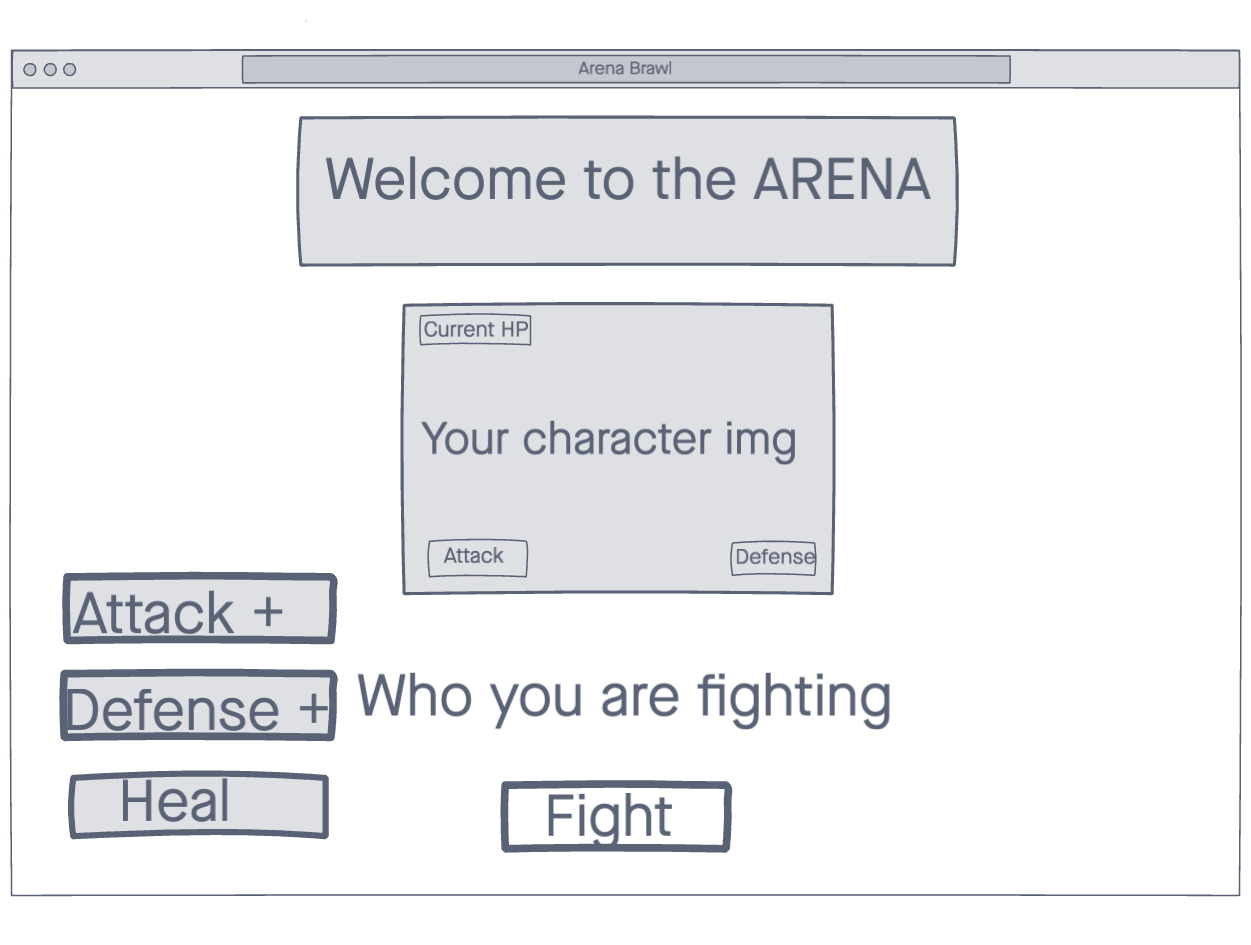
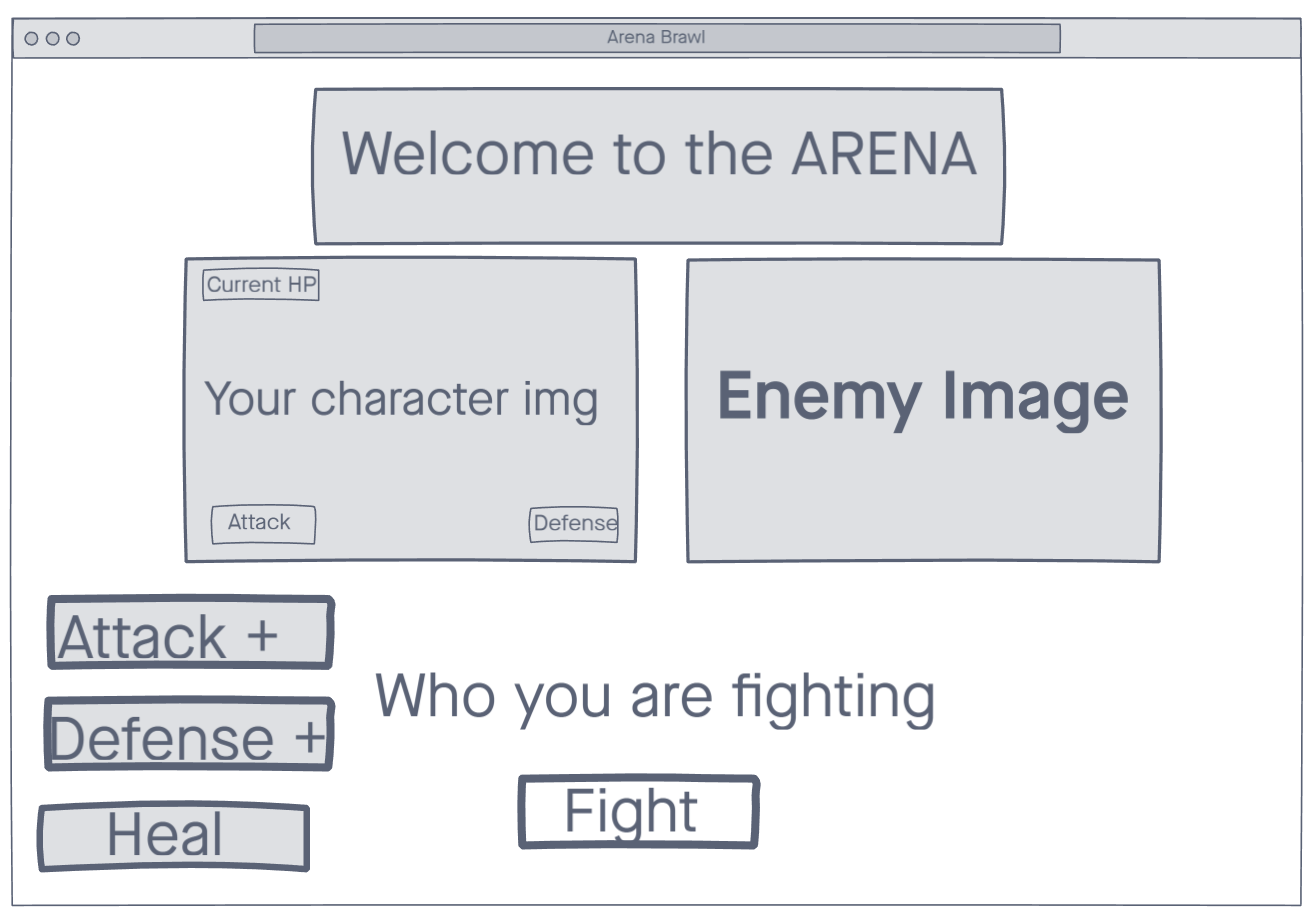
added text to say who you are facing

diff --git a/css/style.css b/css/style.css
@@ -177,13 +177,16 @@ h1 {
     display: flex;
     position: relative;
     justify-content: center;
+    flex-direction: column;
+    align-items: center;
+    top: -60px;
 }
 
 .victory {
     display: inline-block;
     position: relative;
     justify-content: left;
-    top: 100px;
+    top: 80px;
 }
 
 #Fight {
@@ -194,6 +197,7 @@ h1 {
     color: white;
     font-size: 45px;
     border-radius: 8px;
+    width: 70%;
 } 
 
 .bonus {
@@ -253,4 +257,27 @@ h1 {
 
 .endImg {
     padding: 25px;
+}
+
+.declareOpp {
+    display: flex;
+    color: darkslategray;
+    justify-content: center;
+}
+
+.Bob {
+    position: fixed;
+    left: 295px;
+    top: 800px;
+}
+
+.VS {
+    position: fixed;
+    top: 800px;
+}
+
+.oppName {
+    position: fixed;
+    top: 800px;
+    left: 1100px;
 }

diff --git a/js/main.js b/js/main.js
@@ -446,6 +446,7 @@ document.querySelector("#Fight").onclick = function () {
     oppDisplayHP.innerHTML = ("Health: " + enemy[en].health)
     oppDisplayAtt.innerHTML = ("Attack: " + enemy[en].attack)
     oppDisplayDef.innerHTML = ("Defense: " + enemy[en].defense)
+    document.querySelector(".oppName").innerHTML = "The " + enemy[en].name
     document.querySelector("#Fight").disabled = true
     brawl(Bob, enemy[en])
     enemy.splice(en, 1)

diff --git a/index.html b/index.html
@@ -92,6 +92,7 @@
         <img src="Images/Heal.png" class="heal" id="potion2">
     </div>
     <div class="buttons">
+        <div class="declareOpp"><h1 class="Bob">Bob, the Conqueror</h1><h1 class="VS">VS</h1><h1 class="oppName">Opp Name</h1></div>
         <input type="button" id="Fight" value="Fight!">
     </div>
     <div class="modal2" id="myModal2">
